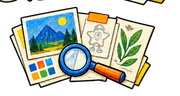
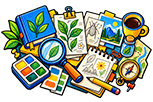
polish: inspector head merge, empty-state panel, spacing fixes

diff --git a/public/styles.css b/public/styles.css
@@ -395,6 +395,7 @@ svg {
   margin-inline: 16px;
   border: 2px solid var(--graphite);
   border-radius: 8px 11px 8px 10px;
+  padding: 0 10px 0 12px;
   background: var(--paper-raised);
 }
 
@@ -463,7 +464,7 @@ svg {
   height: 17px;
 }
 .topbar .button--primary {
-  box-shadow: 2.5px 2.5px 0 var(--graphite);
+  box-shadow: 2px 3px 0 rgb(25 23 21 / 18%);
 }
 
 .button,
@@ -727,7 +728,7 @@ svg {
   z-index: 8;
   top: 0;
   display: flex;
-  min-height: 58px;
+  min-height: 68px;
   align-items: end;
   gap: 14px;
   border-bottom: 2px solid var(--graphite);
@@ -761,7 +762,7 @@ svg {
 .batch-bar {
   position: sticky;
   z-index: 9;
-  top: 58px;
+  top: 68px;
   display: flex;
   min-height: 50px;
   align-items: center;
@@ -1173,21 +1174,25 @@ svg {
   display: grid;
   min-height: 150px;
   place-items: center;
+  align-content: center;
   border: 2px dashed var(--graphite);
   border-radius: 9px 11px 8px 10px;
-  padding: 24px;
+  padding: 20px 24px;
   background: var(--paper-raised);
   text-align: center;
 }
-.empty-library-illustration { width: min(220px, 75vw); margin: 0 auto 12px; }
+.empty-library-illustration { width: 190px; margin: 0 auto 10px; display: block; }
 
 .empty-library-panel h2 {
-  margin-bottom: 6px;
+  font-size: 13.5px;
+  font-weight: 700;
+  margin-bottom: 5px;
 }
 
 .empty-library-panel p {
-  max-width: 52ch;
-  margin-bottom: 16px;
+  max-width: 40ch;
+  margin: 0 auto 14px;
+  font-size: 12.5px;
   color: var(--muted);
 }
 
@@ -1382,17 +1387,22 @@ svg {
   height: 46px;
 }
 
-.inspector-top {
+.inspector-head {
   position: sticky;
-  z-index: 8;
   top: 0;
+  z-index: 8;
+  background: var(--paper-raised);
+  box-shadow: 0 3px 8px rgba(25, 23, 21, 0.16);
+  border-bottom: 2px solid var(--graphite);
+  padding: 8px 10px;
+}
+
+.inspector-top {
   display: flex;
   align-items: center;
   justify-content: space-between;
   min-height: 54px;
-  border-bottom: 2px solid var(--graphite);
   padding: 8px 10px 8px 16px;
-  background: linear-gradient(180deg, rgba(255, 253, 246, 0.94), rgba(255, 251, 240, 0.9));
 }
 
 .inspector-title {
@@ -2252,15 +2262,10 @@ svg {
 
 /* Inspector polish: semantic reading path without replacing the binder system. */
 .inspector-nav {
-  position: sticky;
-  z-index: 7;
-  top: 54px;
   display: flex;
   gap: 8px;
   overflow-x: auto;
-  border-bottom: 2px solid var(--graphite);
   padding: 8px 12px 10px 20px;
-  background: linear-gradient(180deg, rgba(255, 251, 240, 0.92), rgba(255, 253, 246, 0.9));
   scrollbar-width: thin;
 }
 
@@ -2370,7 +2375,7 @@ svg {
 .inspector-overview { padding-top: 13px; }
 /* 章节滚动目标让出 sticky 顶栏 + 台沿工具条 */
 .inspector-section {
-  scroll-margin-top: 116px;
+  scroll-margin-top: 132px;
 }
 .inspector-overview .inspector-preview { margin: 0 0 12px; }
 .inspector-section--sub { border-top: 0; padding-top: 8px; }
@@ -2404,7 +2409,6 @@ svg {
   .inspector-top { min-height: 64px; }
   .inspector-top .icon-button { display: inline-flex; width: auto; min-width: 40px; gap: 5px; padding-inline: 8px; }
   .inspector-back-label { display: inline; font-size: 11px; font-weight: 700; }
-  .inspector-nav { top: 64px; }
   .inspector-preview img { max-height: min(42vh, 360px); }
   .inspector-mobile-actions { position: fixed; z-index: 90; right: 10px; bottom: 10px; left: 10px; display: grid; grid-template-columns: 1fr 1fr; gap: 8px; border: 2px solid var(--graphite); border-radius: 7px 9px 6px 8px; padding: 7px; background: var(--paper-raised); box-shadow: 3px 3px 0 rgba(25, 23, 21, .18); }
   .inspector-mobile-actions .button { min-height: 44px; justify-content: center; }
@@ -2757,7 +2761,7 @@ svg {
 
   .batch-bar {
     flex-wrap: wrap;
-    top: 58px;
+    top: 0;
     padding: 8px 10px;
   }
 

diff --git a/public/app.js b/public/app.js
@@ -1560,6 +1560,7 @@ function renderInspector() {
   }
 
   elements.inspectorContent.innerHTML = `
+    <div class="inspector-head">
     <div class="inspector-top">
       <div class="inspector-title">
         <p>${escapeHTML(stateLabel(asset.status))}</p>
@@ -1595,6 +1596,7 @@ function renderInspector() {
       <button type="button" data-inspector-jump="implementation">实作输出</button>
       <button type="button" data-inspector-jump="management">资料管理</button>
     </nav>
+    </div>
 
     ${
       asset.synthetic
